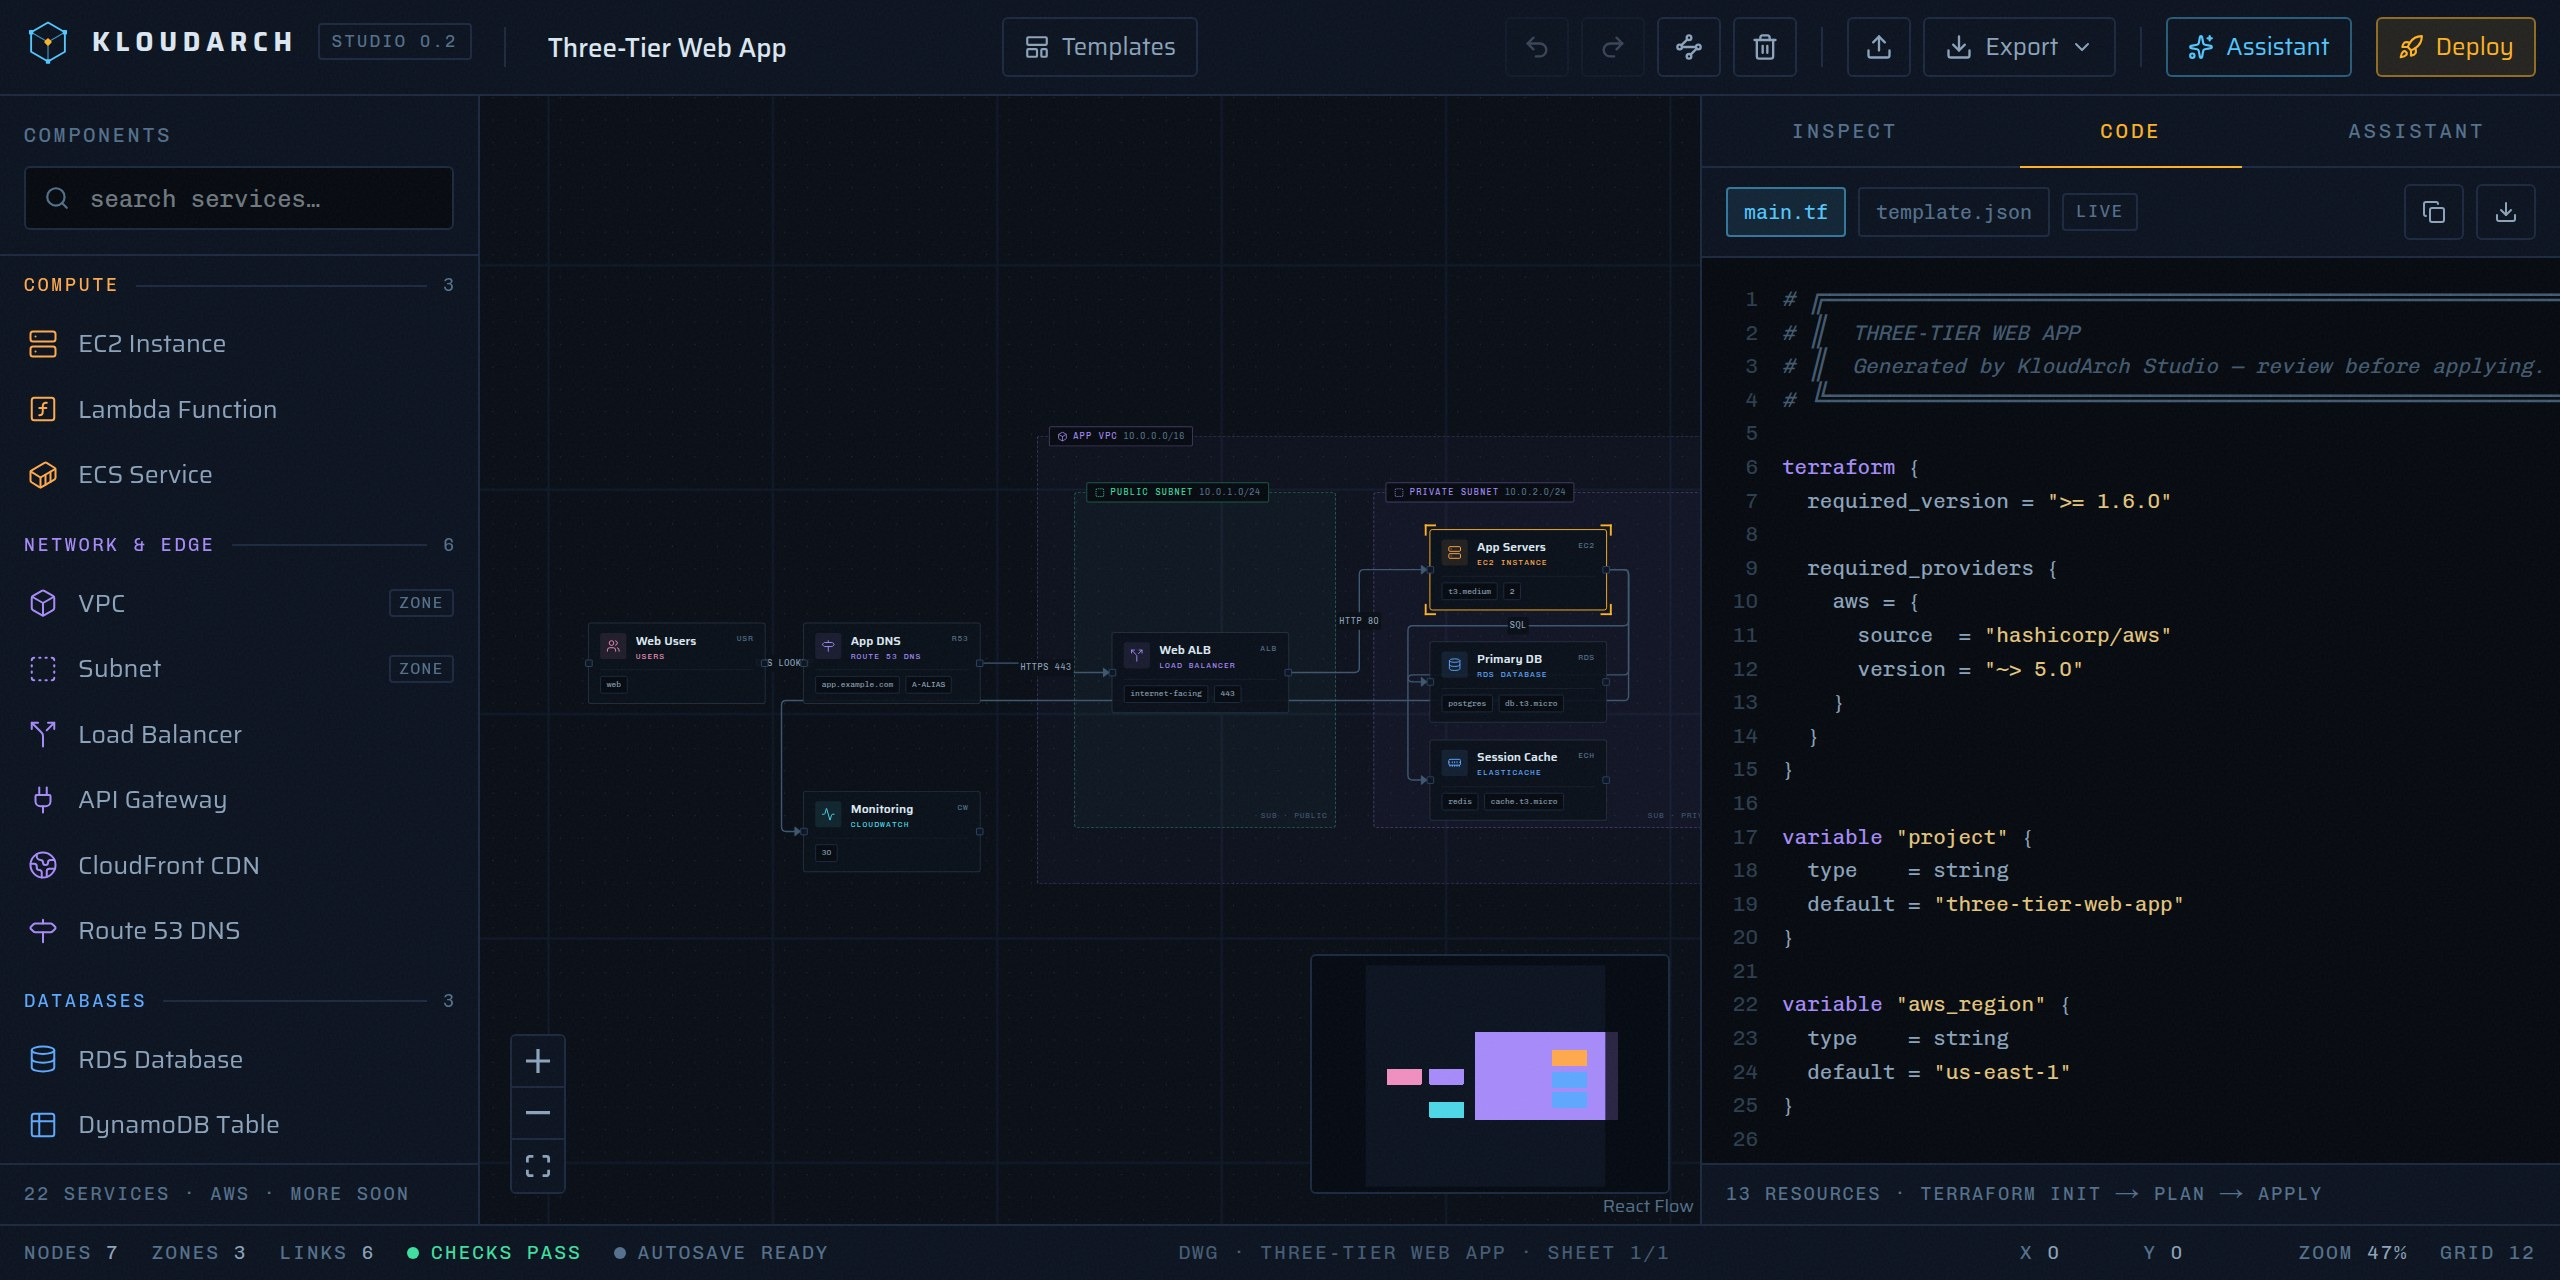
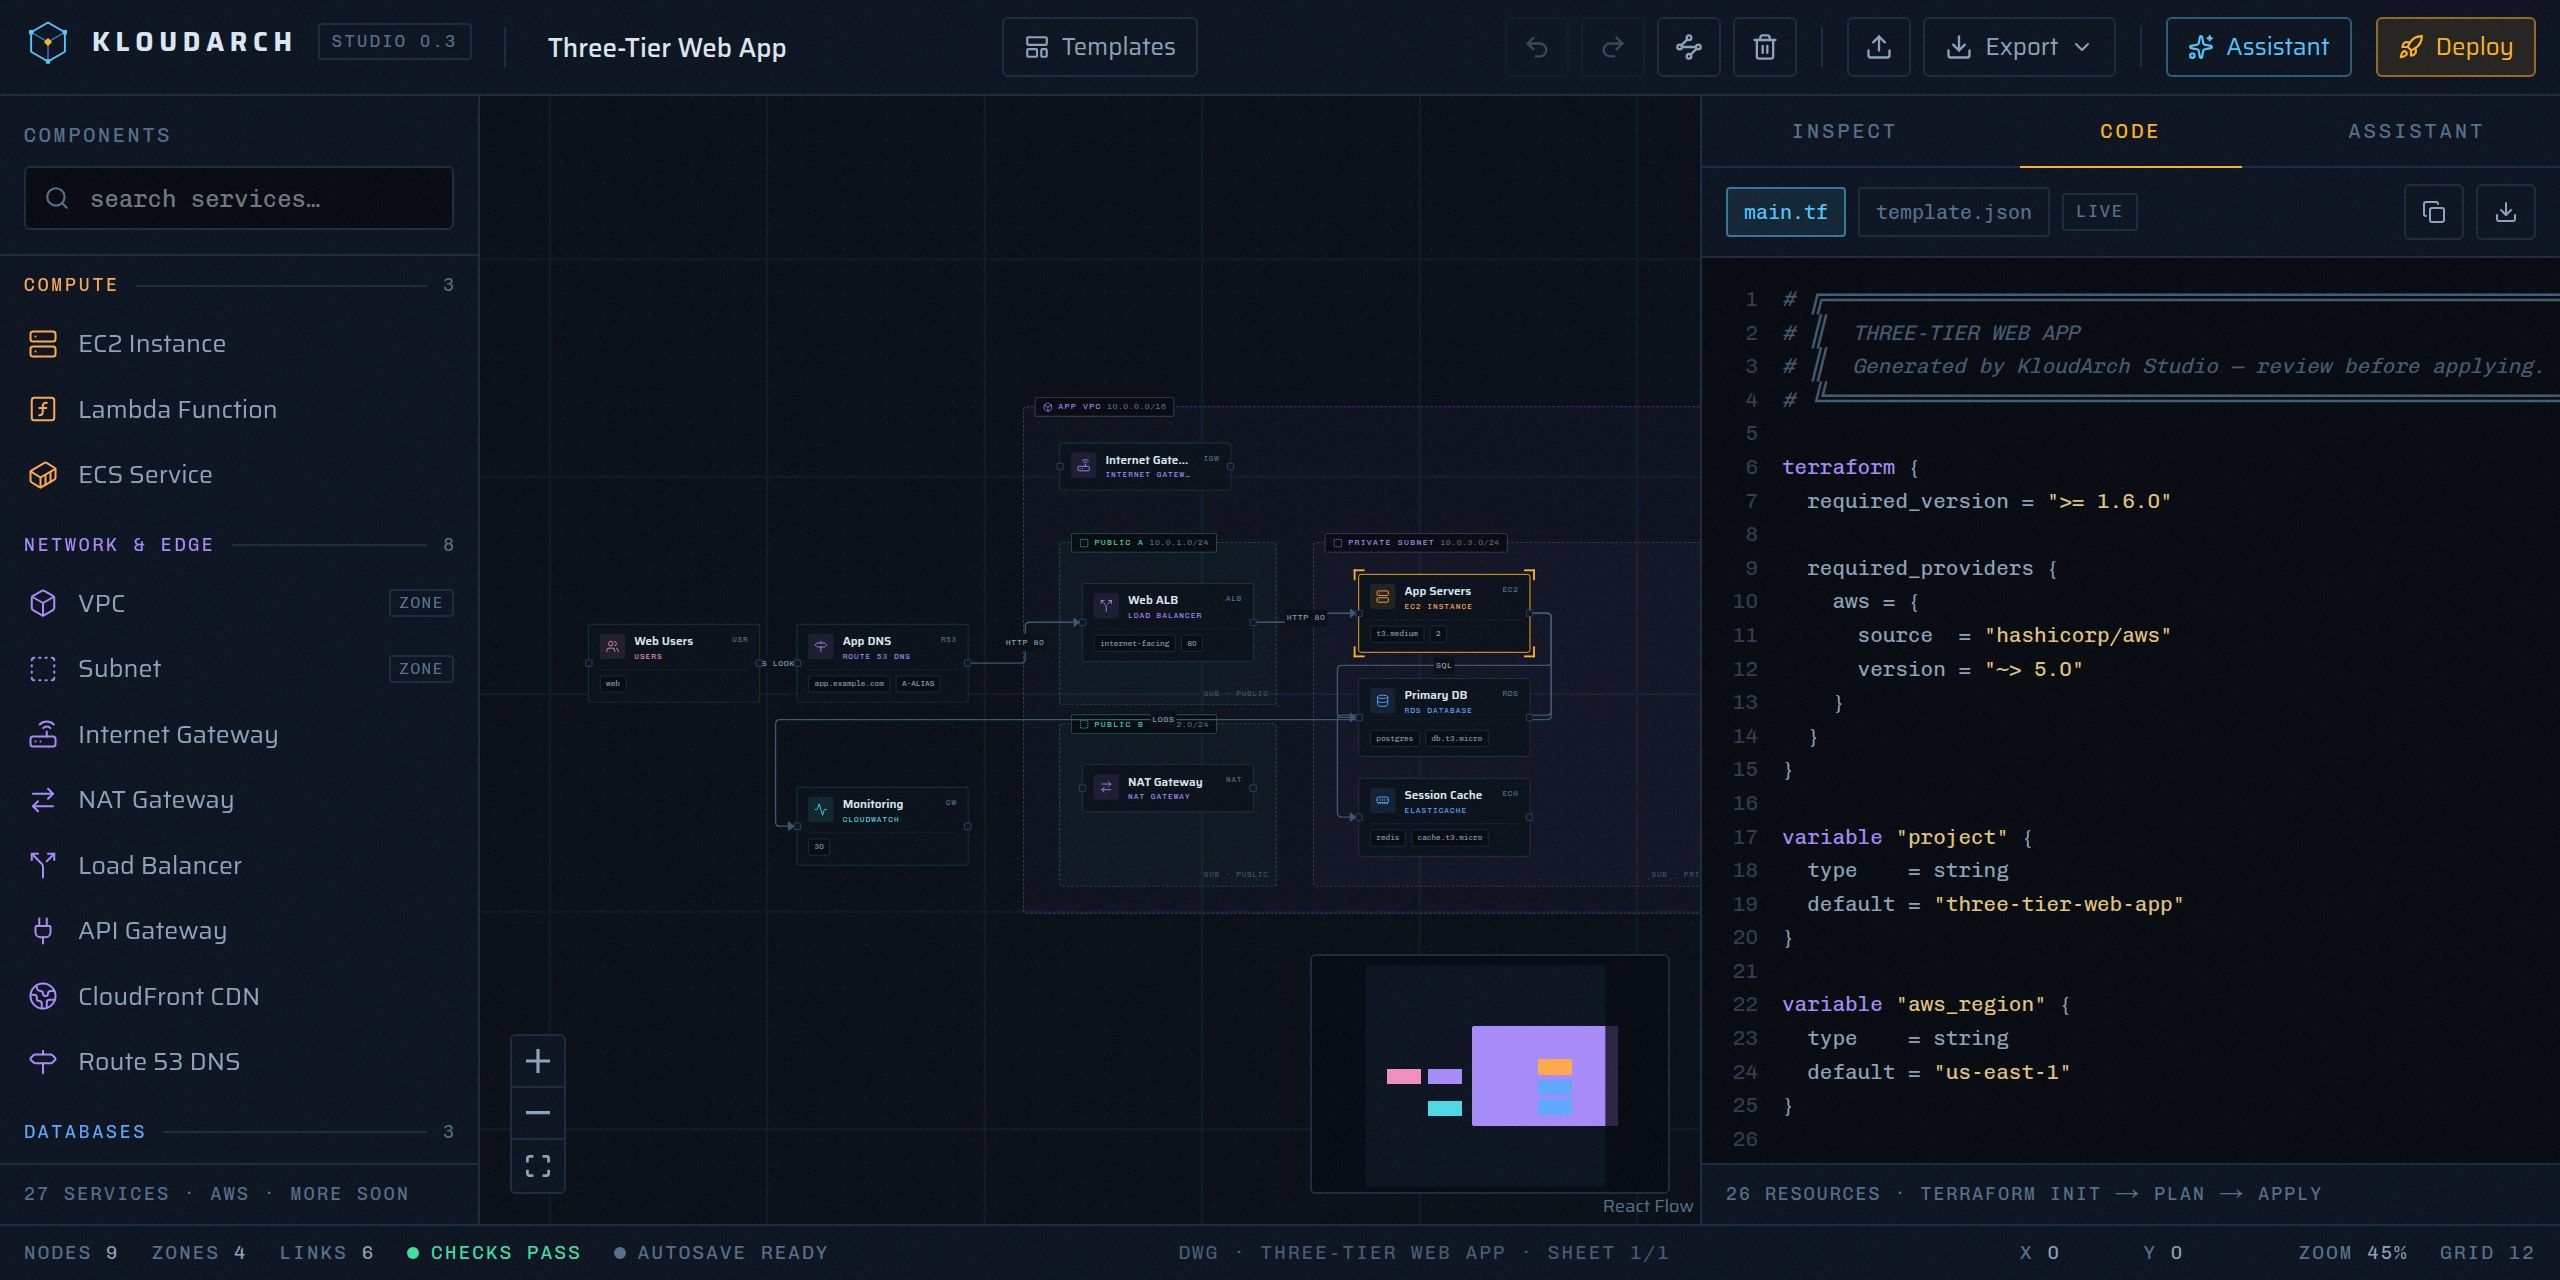
Retake landing/social screenshots for v0.3; bump studio badge to 0.3
New shots show the routed three-tier VPC (IGW, NAT, dual-AZ subnets)
with live Terraform routing. Studio badge and package version → 0.3.

diff --git a/src/components/studio/TopBar.tsx b/src/components/studio/TopBar.tsx
@@ -87,7 +87,7 @@ export default function TopBar() {
     <header className="flex h-12 shrink-0 items-center gap-3 border-b border-line bg-panel px-3">
       {/* Wordmark */}
       <Link href="/" className="pr-1" title="KloudArch home">
-        <LogoLockup markSize={24} tag="STUDIO 0.2" />
+        <LogoLockup markSize={24} tag="STUDIO 0.3" />
       </Link>
 
       <span className="h-5 w-px bg-line" />
